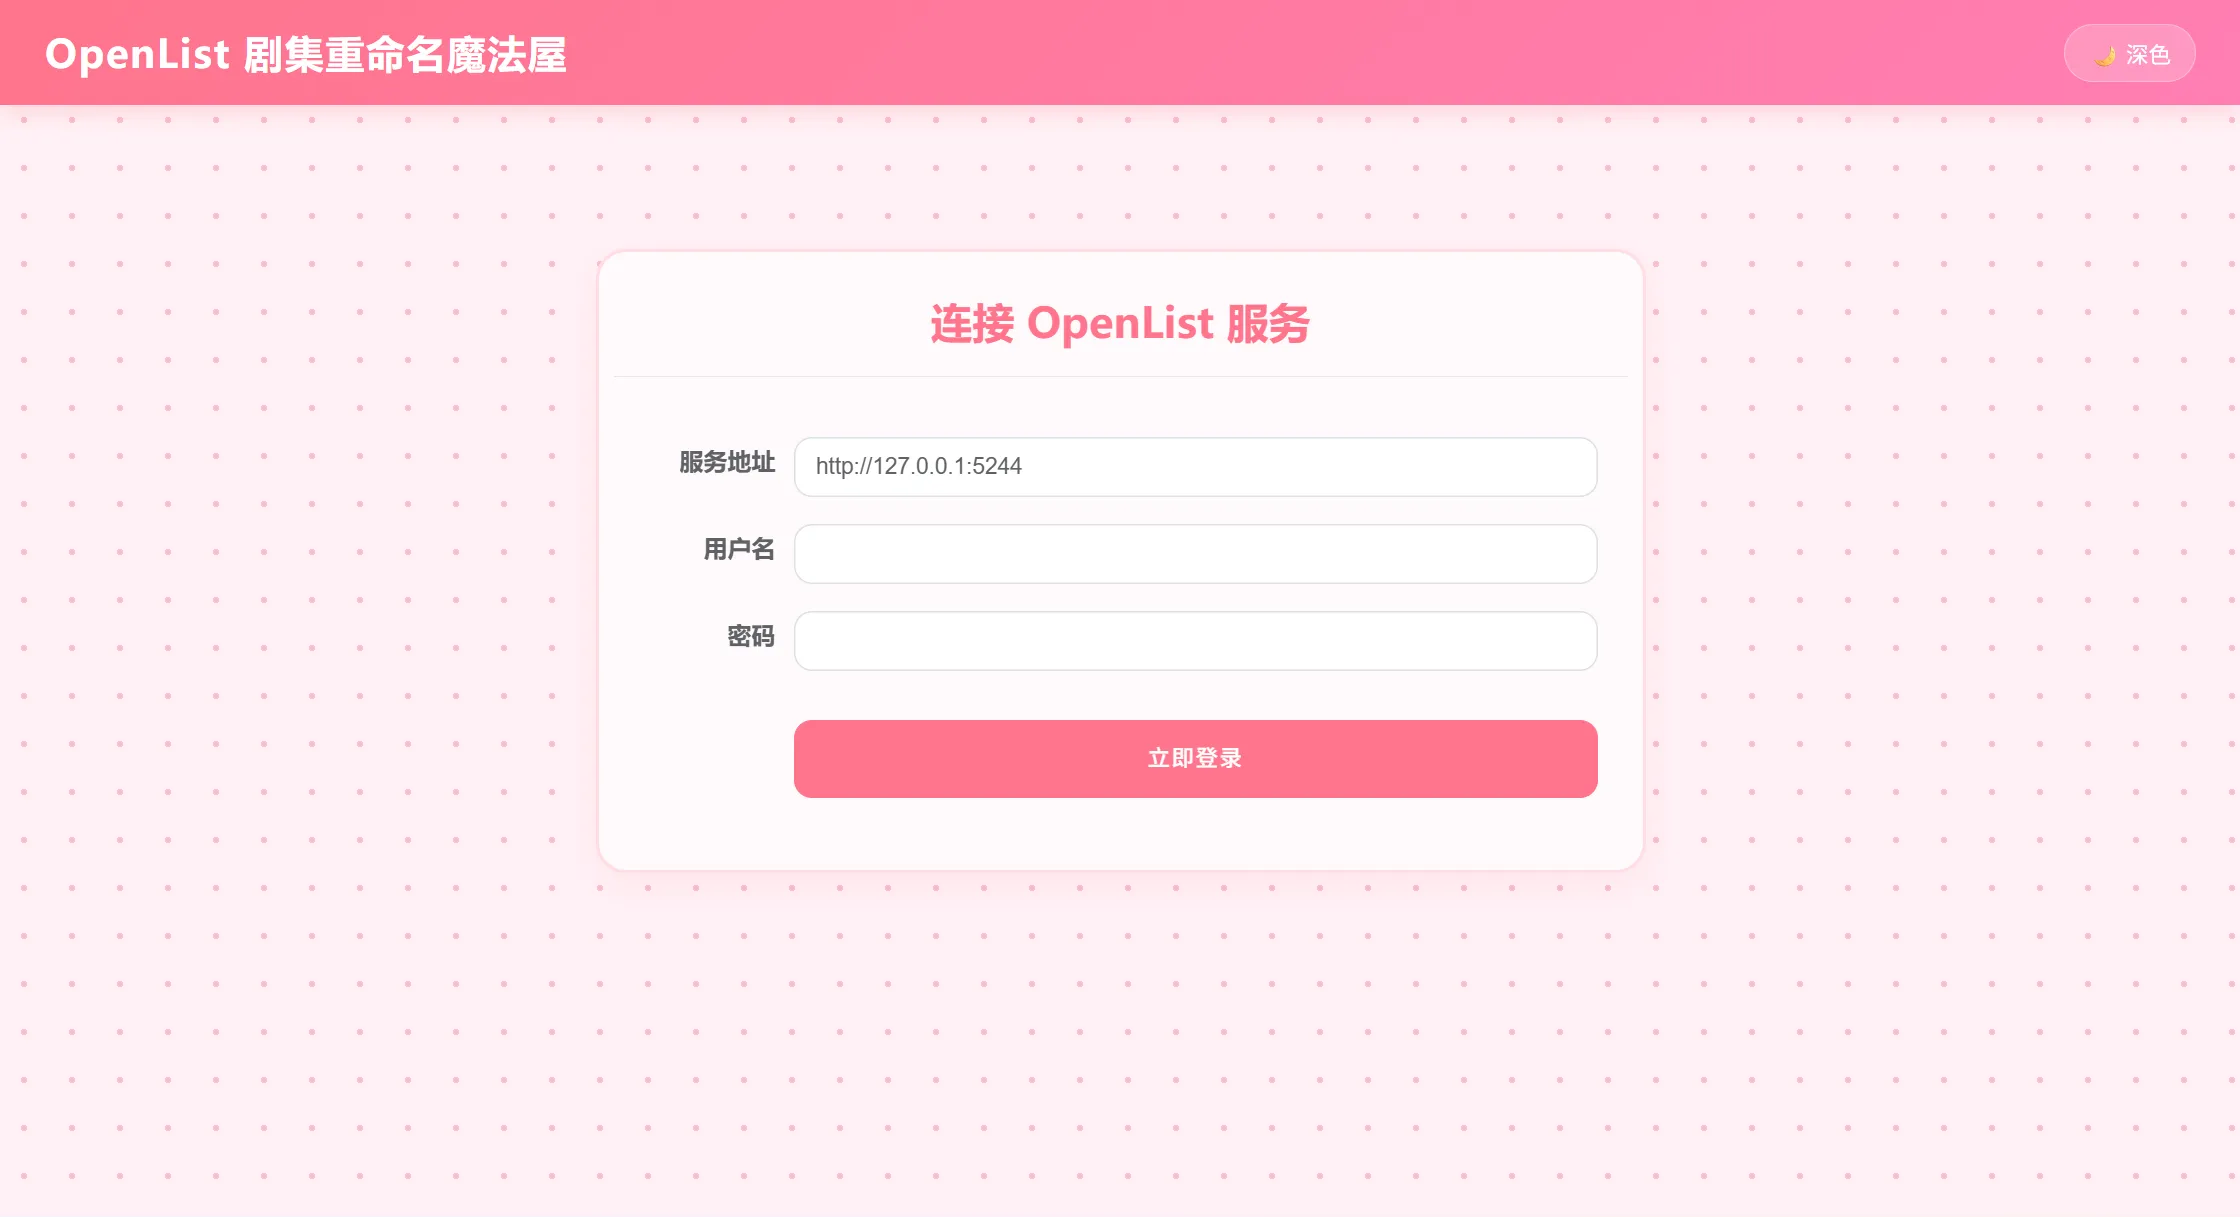
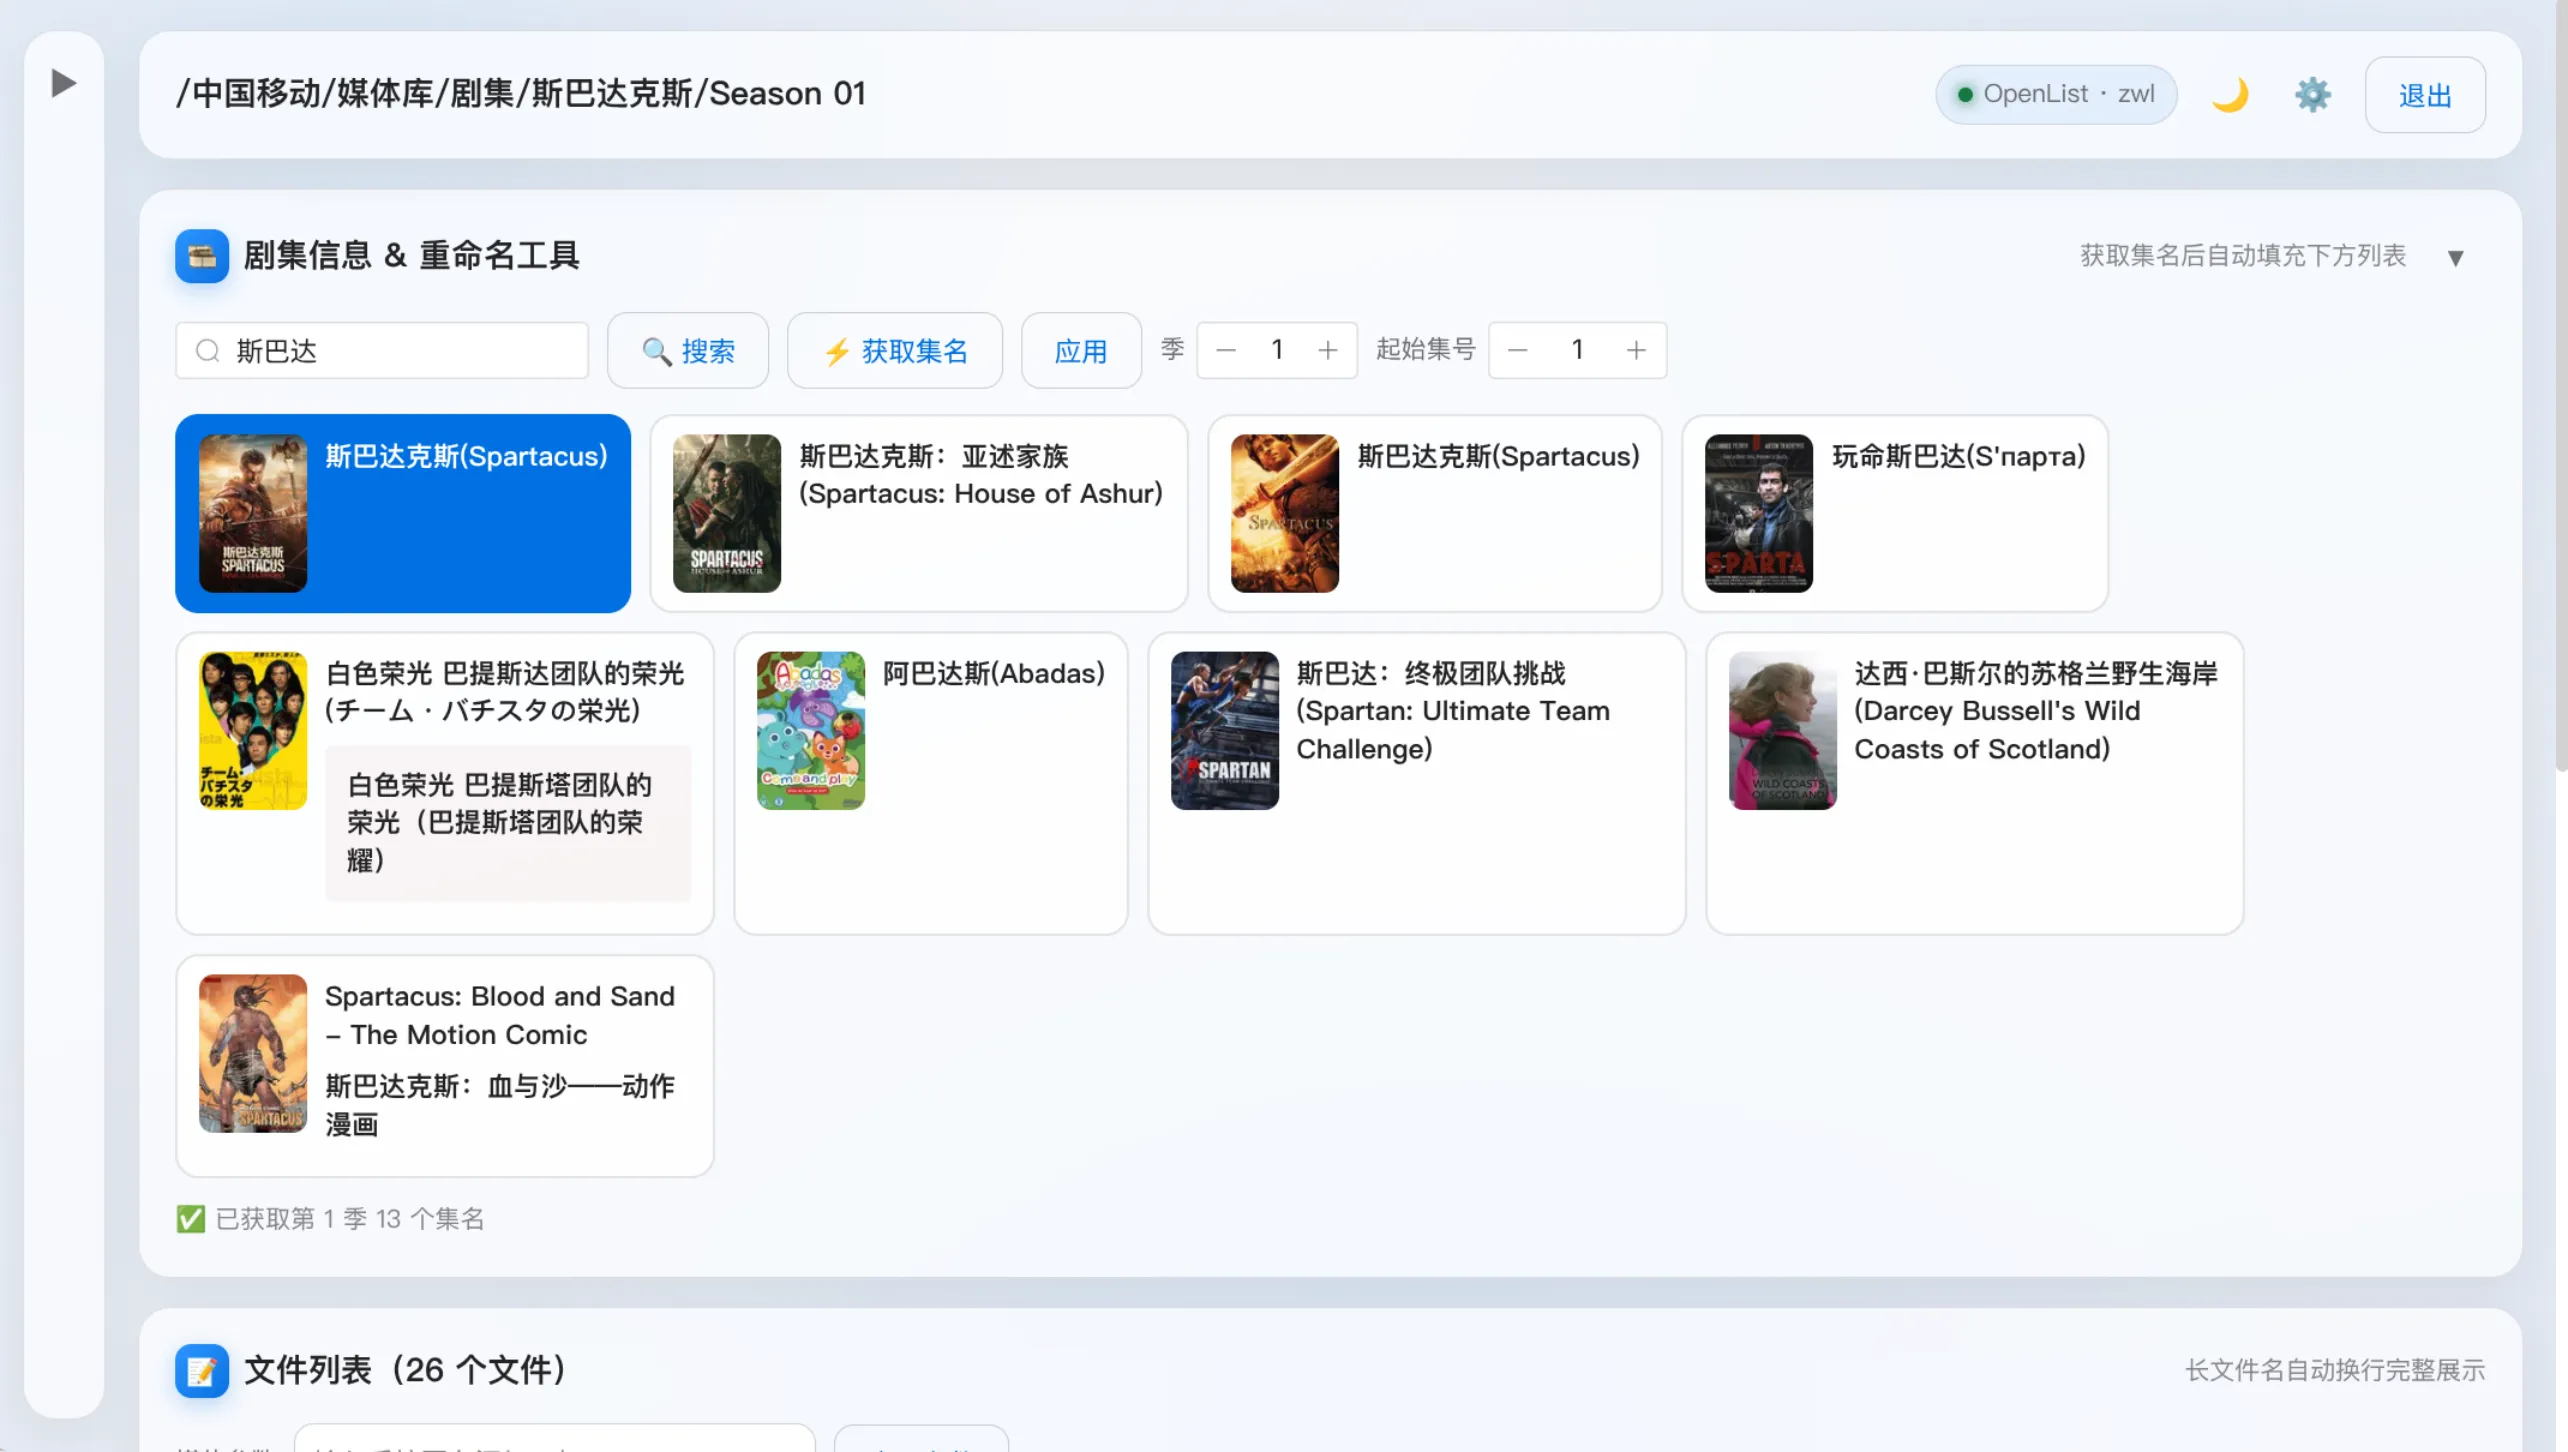
feat(web): 媒体参数回车输入框，工具条顺序/表头调整，空参数清空
- 媒体参数：回车添加标签块(如1080p)，可追加多个，✕删除，应用参数改名为参数并支持空参数清空列
- 移除含集名/刷新按钮与'媒体参数'标签，应用按钮移至起始集号之后
- 表头 S→Season、E→Episode、标签→参数；input-number 加减号去白色
- 更新预览图

diff --git a/frontend/index.html b/frontend/index.html
@@ -292,6 +292,33 @@
         .btn-up:disabled { opacity: .45; cursor: not-allowed; }
         .tool-item { display: inline-flex; align-items: center; gap: 6px; }
         .tool-label { font-size: 14px; color: var(--text-2); white-space: nowrap; }
+        .tag-bar { display: flex; align-items: center; gap: 10px; margin-bottom: 14px; flex-wrap: wrap; }
+        .param-input {
+            height: 44px; width: 290px; display: flex; align-items: center; gap: 6px;
+            padding: 4px 10px; border-radius: 11px; box-sizing: border-box;
+            background: var(--input-bg); border: 1px solid var(--border-strong);
+            overflow-x: auto; font-size: 15px;
+        }
+        .param-input input {
+            flex: 1; min-width: 80px; height: 100%; border: none; outline: none;
+            background: transparent; font-size: 15px; color: var(--text-1);
+        }
+        .param-input input::placeholder { color: var(--text-3); font-size: 15px; }
+        .param-chip {
+            display: inline-flex; align-items: center; padding: 0 8px; height: 26px;
+            border-radius: 7px; background: var(--tag-bg); color: var(--accent);
+            font-size: 15px; white-space: nowrap; flex-shrink: 0;
+        }
+        .param-x { cursor: pointer; opacity: .7; margin-left: 5px; font-size: 13px; font-weight: 400; }
+        .param-x:hover { opacity: 1; }
+        .el-input-number .el-input-number__decrease,
+        .el-input-number .el-input-number__increase {
+            background: transparent; color: var(--text-2); border: none;
+        }
+        .el-input-number .el-input-number__decrease:not(.is-disabled):hover,
+        .el-input-number .el-input-number__increase:not(.is-disabled):hover {
+            background: var(--tag-bg); color: var(--accent);
+        }
         .tool-divider { width: 1px; height: 26px; background: var(--border-strong); opacity: .5; flex-shrink: 0; }
         .tmdb-poster-ph { width: 60px; height: 88px; border-radius: 8px; background: var(--tag-bg); flex-shrink: 0; }
         .footer-bar { display: flex; align-items: center; gap: 14px; padding: 14px 20px; }
@@ -412,20 +439,16 @@
                         <button class="btn-ghost" :disabled="tmdb.searching" @click="tmdbSearch">
                             {{ tmdb.searching ? '搜索中…' : '🔍 搜索' }}
                         </button>
+                        <button v-if="tmdb.selected" class="btn-ghost" :disabled="tmdb.fetching" @click="tmdbFetch">
+                            {{ tmdb.fetching ? '获取中…' : '⚡ 获取集名' }}
+                        </button>
                         <span class="tool-item"><span class="tool-label">季</span>
                             <el-input-number v-model="tmdb.season" :min="1" :max="99" size="default" style="width:90px"></el-input-number>
                         </span>
                         <span class="tool-item"><span class="tool-label">起始集号</span>
                             <el-input-number v-model="epStart" :min="1" size="default" style="width:100px"></el-input-number>
                         </span>
-                        <button v-if="tmdb.selected" class="btn-ghost" :disabled="tmdb.fetching" @click="tmdbFetch">
-                            {{ tmdb.fetching ? '获取中…' : '⚡ 获取集名' }}
-                        </button>
                         <button class="btn-ghost" @click="applyEpisodeNumbers">应用</button>
-                        <span class="tool-item"><span class="tool-label">含集名</span>
-                            <el-checkbox v-model="useTitle"></el-checkbox>
-                        </span>
-                        <button class="btn-ghost" @click="reload(true)">↻ 刷新</button>
                     </div>
                     <div v-if="tmdb.results.length" class="tmdb-results">
                         <div v-for="r in tmdb.results" :key="r.id" class="tmdb-card"
@@ -451,19 +474,24 @@
                     <span class="muted" style="margin-left:auto">长文件名自动换行完整展示</span>
                 </div>
                 <div class="tag-bar">
-                    <span class="tool-label">批量标签</span>
-                    <el-input v-model="batchTags" size="small" clearable placeholder="如 1080p,BluRay" style="width:220px"></el-input>
-                    <button class="btn-ghost" @click="applyTags">应用标签</button>
+                    <div class="param-input">
+                        <span v-for="(p,i) in mediaParams" :key="p + '-' + i" class="param-chip">
+                            {{ p }}<b class="param-x" title="移除" @click="mediaParams.splice(i,1)">✕</b>
+                        </span>
+                        <input type="text" v-model="paramDraft" placeholder="输入后按回车添加，如 1080p"
+                               @keydown.enter.prevent="addParam" @keydown.backspace.prevent="backspaceParam">
+                    </div>
+                    <button class="btn-ghost" @click="applyTags">应用参数</button>
                 </div>
                 <div class="table-wrap">
                     <table class="tbl">
                         <thead>
                             <tr>
                                 <th>原文件名</th>
-                                <th style="width:70px">S</th>
-                                <th style="width:70px">E</th>
+                                <th style="width:110px">Season</th>
+                                <th style="width:110px">Episode</th>
                                 <th style="width:150px">集名（可选）</th>
-                                <th class="tags">标签</th>
+                                <th class="tags">参数</th>
                                 <th>新文件名（预览）</th>
                             </tr>
                         </thead>
@@ -585,7 +613,19 @@ createApp({
         const rows = ref([]);
         const health = reactive({ logged_in: false, user: '', openlist_ok: false });
         const settings = reactive({ tmdb_api_key:'', delimiter:'.', use_episode_title:true, default_season:'1', default_episode_start:'1', theme:'light' });
-        const batchTags = ref('');
+        const mediaParams = ref([]);
+        const paramDraft = ref('');
+        async function addParam() {
+            const v = paramDraft.value.trim();
+            if (!v) return;
+            if (!mediaParams.value.includes(v)) mediaParams.value.push(v);
+            paramDraft.value = '';
+            await nextTick();
+        }
+        function backspaceParam() {
+            if (paramDraft.value) return;
+            if (mediaParams.value.length) mediaParams.value.pop();
+        }
         const epStart = ref(1);
         const useTitle = ref(true);
         const sidebarCol = ref(false);
@@ -804,10 +844,11 @@ createApp({
             ElMessage.success('已填充「' + tmdb.selected.name + '」共 ' + rows.value.length + ' 行，预览列已更新');
         }
         function applyTags() {
-            if (!batchTags.value.trim()) return;
-            for (const r of rows.value) r.tags = batchTags.value.trim();
+            const joined = mediaParams.value.join(',');
+            for (const r of rows.value) r.tags = joined;
             syncEpisodes();
-            ElMessage.success('标签已应用到 ' + rowsCount.value + ' 行');
+            if (mediaParams.value.length) ElMessage.success('参数已应用到 ' + rowsCount.value + ' 行');
+            else ElMessage.info('已清空文件列表参数');
         }
         function applyEpisodeNumbers() {
             if (!rows.value.length) { ElMessage.warning('当前没有可应用的文件'); return; }
@@ -967,13 +1008,13 @@ createApp({
 
         return {
             loggedIn, loading, committing, currentPath, directories, files, rows, health, settings,
-            batchTags, epStart, useTitle, sidebarCol, toolsOpen, loginForm, loggingIn, loginError, tmdb,
+            mediaParams, paramDraft, epStart, useTitle, sidebarCol, toolsOpen, loginForm, loggingIn, loginError, tmdb,
             settingsOpen, savingSet, setForm, renamingDir, newDirName,
             dirName, rowsCount, renameableCount, crumbPath,
             crumbs, mediaExt, previewName, humanSize,
             doLogin, logout, reload, buildRows, openDir, navigateTo, goUp, scrollToFile,
             renameDir, commitDirRename, cancelDirRename, commitRename,
-            normalizeNum, fillFromSelection, applyTags, applyEpisodeNumbers,
+            normalizeNum, fillFromSelection, addParam, backspaceParam, applyTags, applyEpisodeNumbers,
             tmdbSearch, tmdbFetch, openSettings, saveSettings, toggleTheme, checkHealth,
             Search
         };
